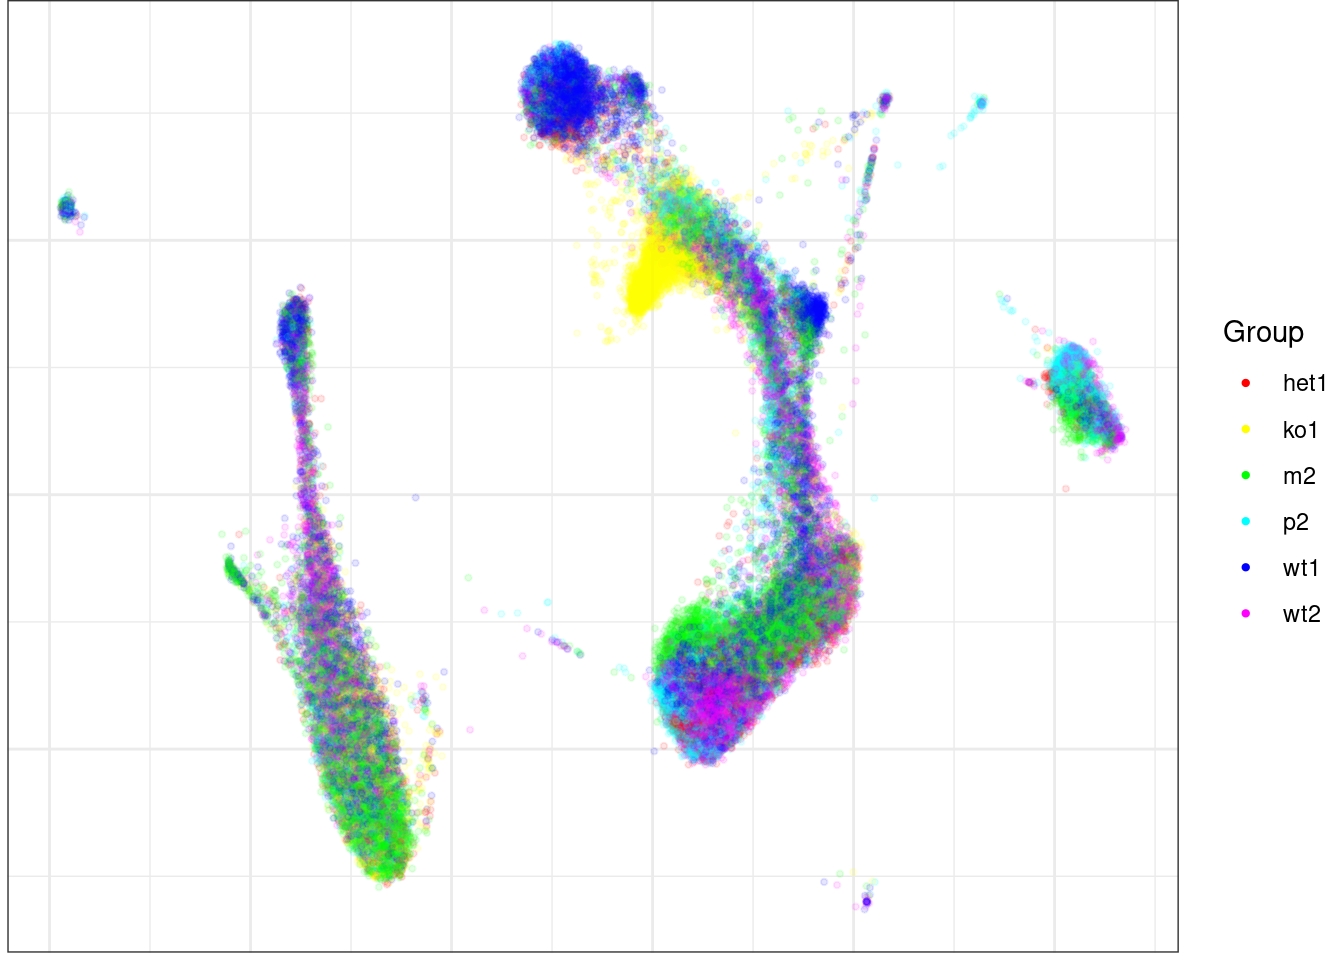
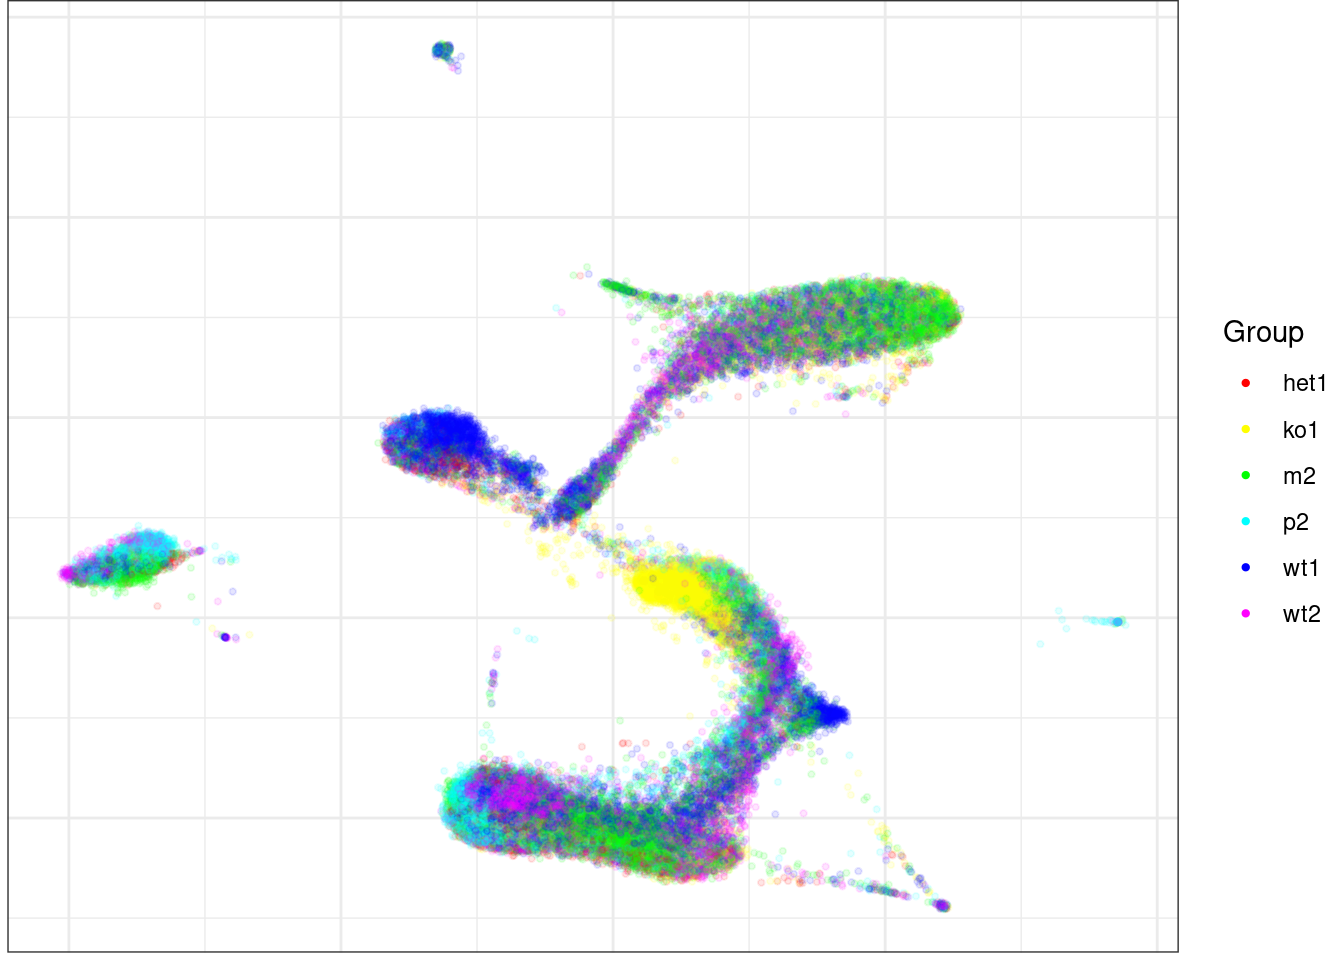
Build site.

diff --git a/docs/analysiswithconos.html b/docs/analysiswithconos.html
@@ -523,16 +523,16 @@ This reproducible <a href="http://rmarkdown.rstudio.com">R Markdown</a> analysis
 <div class="panel panel-default">
 <div class="panel-heading">
 <p class="panel-title">
-<a data-toggle="collapse" data-parent="#workflowr-checks" href="#strongRepositoryversionstrongahrefhttpsgithubcomjeprobprojectscrnaseqintegrationcomparisontree62b2a0fd752f8cdc4f7659828af6ff8f24dde9dctargetblank62b2a0fa"> <span class="glyphicon glyphicon-ok text-success" aria-hidden="true"></span> <strong>Repository version:</strong> <a href="https://github.com/jeprob/project-scrnaseq-integration-comparison/tree/62b2a0fd752f8cdc4f7659828af6ff8f24dde9dc" target="_blank">62b2a0f</a> </a>
+<a data-toggle="collapse" data-parent="#workflowr-checks" href="#strongRepositoryversionstrongahrefhttpsgithubcomjeprobprojectscrnaseqintegrationcomparisontreecd2926fd6c149e98e54ccf07dc06f74f53d031a6targetblankcd2926fa"> <span class="glyphicon glyphicon-ok text-success" aria-hidden="true"></span> <strong>Repository version:</strong> <a href="https://github.com/jeprob/project-scrnaseq-integration-comparison/tree/cd2926fd6c149e98e54ccf07dc06f74f53d031a6" target="_blank">cd2926f</a> </a>
 </p>
 </div>
[2 lines of base64/hex data omitted]
 <div class="panel-body">
 <p>
 Great! You are using Git for version control. Tracking code development and connecting the code version to the results is critical for reproducibility.
 </p>
 <p>
-The results in this page were generated with repository version <a href="https://github.com/jeprob/project-scrnaseq-integration-comparison/tree/62b2a0fd752f8cdc4f7659828af6ff8f24dde9dc" target="_blank">62b2a0f</a>. See the <em>Past versions</em> tab to see a history of the changes made to the R Markdown and HTML files.
+The results in this page were generated with repository version <a href="https://github.com/jeprob/project-scrnaseq-integration-comparison/tree/cd2926fd6c149e98e54ccf07dc06f74f53d031a6" target="_blank">cd2926f</a>. See the <em>Past versions</em> tab to see a history of the changes made to the R Markdown and HTML files.
 </p>
 <p>
 Note that you need to be careful to ensure that all relevant files for the analysis have been committed to Git prior to generating the results (you can use <code>wflow_publish</code> or <code>wflow_git_commit</code>). workflowr only checks the R Markdown file, but you know if there are other scripts or data files that it depends on. Below is the status of the Git repository when the results were generated:
@@ -579,6 +579,40 @@ Message
 </tr>
 </thead>
 <tbody>
+<tr>
+<td>
+Rmd
+</td>
+<td>
+<a href="https://github.com/jeprob/project-scrnaseq-integration-comparison/blob/cd2926fd6c149e98e54ccf07dc06f74f53d031a6/analysis/analysiswithconos.Rmd" target="_blank">cd2926f</a>
+</td>
+<td>
+jeprob
+</td>
+<td>
+2021-01-09
+</td>
+<td>
+wflow_publish(“analysis/analysiswithconos.Rmd”)
+</td>
+</tr>
+<tr>
+<td>
+html
+</td>
+<td>
+<a href="https://rawcdn.githack.com/jeprob/project-scrnaseq-integration-comparison/527b911191baa178ca9c345b99fe35b3191fe85a/docs/analysiswithconos.html" target="_blank">527b911</a>
+</td>
+<td>
+jeprob
+</td>
+<td>
+2021-01-09
+</td>
+<td>
+Build site.
+</td>
+</tr>
 <tr>
 <td>
 Rmd
@@ -847,6 +881,17 @@ Date
 <tbody>
 <tr>
 <td>
+<a href="https://github.com/jeprob/project-scrnaseq-integration-comparison/blob/527b911191baa178ca9c345b99fe35b3191fe85a/docs/figure/analysiswithconos.Rmd/unnamed-chunk-9-1.png" target="_blank">527b911</a>
+</td>
+<td>
+jeprob
+</td>
+<td>
+2021-01-09
+</td>
+</tr>
+<tr>
+<td>
 <a href="https://github.com/jeprob/project-scrnaseq-integration-comparison/blob/7f8786e9bd21fd77239acccee55fa3c5ac8be213/docs/figure/analysiswithconos.Rmd/unnamed-chunk-9-1.png" target="_blank">7f8786e</a>
 </td>
 <td>
@@ -898,6 +943,17 @@ Date
 <tbody>
 <tr>
 <td>
+<a href="https://github.com/jeprob/project-scrnaseq-integration-comparison/blob/527b911191baa178ca9c345b99fe35b3191fe85a/docs/figure/analysiswithconos.Rmd/unnamed-chunk-10-1.png" target="_blank">527b911</a>
+</td>
+<td>
+jeprob
+</td>
+<td>
+2021-01-09
+</td>
+</tr>
+<tr>
+<td>
 <a href="https://github.com/jeprob/project-scrnaseq-integration-comparison/blob/7f8786e9bd21fd77239acccee55fa3c5ac8be213/docs/figure/analysiswithconos.Rmd/unnamed-chunk-10-1.png" target="_blank">7f8786e</a>
 </td>
 <td>
@@ -922,7 +978,7 @@ jeprob
 </table>
 </div>
 </div>
-<p>We find that there are 14 clusters identified in total.</p>
+<p>We find that there are 13 clusters identified in total.</p>
 <p>Next, cells in the original t-SNE embedding were plotted for each panel and cell labels obtained from the joint clustering were added.</p>
 <pre class="r"><code>pbmc.con$plotPanel(font.size=4)</code></pre>
 <p><img src="figure/analysiswithconos.Rmd/unnamed-chunk-11-1.png" width="672" style="display: block; margin: auto;" /></p>
@@ -948,6 +1004,17 @@ Date
 </tr>
 </thead>
 <tbody>
+<tr>
+<td>
+<a href="https://github.com/jeprob/project-scrnaseq-integration-comparison/blob/527b911191baa178ca9c345b99fe35b3191fe85a/docs/figure/analysiswithconos.Rmd/unnamed-chunk-11-1.png" target="_blank">527b911</a>
+</td>
+<td>
+jeprob
+</td>
+<td>
+2021-01-09
+</td>
+</tr>
 <tr>
 <td>
 <a href="https://github.com/jeprob/project-scrnaseq-integration-comparison/blob/7f8786e9bd21fd77239acccee55fa3c5ac8be213/docs/figure/analysiswithconos.Rmd/unnamed-chunk-11-1.png" target="_blank">7f8786e</a>
@@ -1001,6 +1068,17 @@ Date
 <tbody>
 <tr>
 <td>
+<a href="https://github.com/jeprob/project-scrnaseq-integration-comparison/blob/527b911191baa178ca9c345b99fe35b3191fe85a/docs/figure/analysiswithconos.Rmd/unnamed-chunk-12-1.png" target="_blank">527b911</a>
+</td>
+<td>
+jeprob
+</td>
+<td>
+2021-01-09
+</td>
+</tr>
+<tr>
+<td>
 <a href="https://github.com/jeprob/project-scrnaseq-integration-comparison/blob/7f8786e9bd21fd77239acccee55fa3c5ac8be213/docs/figure/analysiswithconos.Rmd/unnamed-chunk-12-1.png" target="_blank">7f8786e</a>
 </td>
 <td>
@@ -1025,7 +1103,7 @@ jeprob
 </table>
 </div>
 </div>
-<p>Many interesting things can be observed in this plot. The number of cells belonging to the clusters has a big range from many 1000 to less than 10 cells. Cells from smaller clusters still seemed to be observed in all samples, except for cluster 14 which only appears in samples ko1 and wt1 and cluster 12 which does not appear in het1. It is notable that most of the cells in ko1 belong either to cluster 2 or 14. Furthermore, there is no obvious trend, judged by eye, that wildtype sample cells seemed to be differently distributed than the remaining samples het1, m2 and p2.</p>
+<p>Many interesting things can be observed in this plot. The number of cells belonging to the clusters has a big range from many 1000 to roughly 50 cells. Cells from smaller clusters still seemed to be observed in all samples, except for cluster 12 which does not appear in het1. It is notable that most of the cells in ko1 belong either to cluster 2. Furthermore, there is no obvious trend, judged by eye, that wildtype sample cells seemed to be differently distributed than the remaining samples het1, m2 and p2.</p>
 <p>Further downstream analysis such as gene expression visualization or hierarchical community structure generation would be possible with Conos. For more information visit <a href="https://github.com/kharchenkolab/conos/blob/master/vignettes/walkthrough.md">this vignette</a>.</p>
 <br>
 <p>
